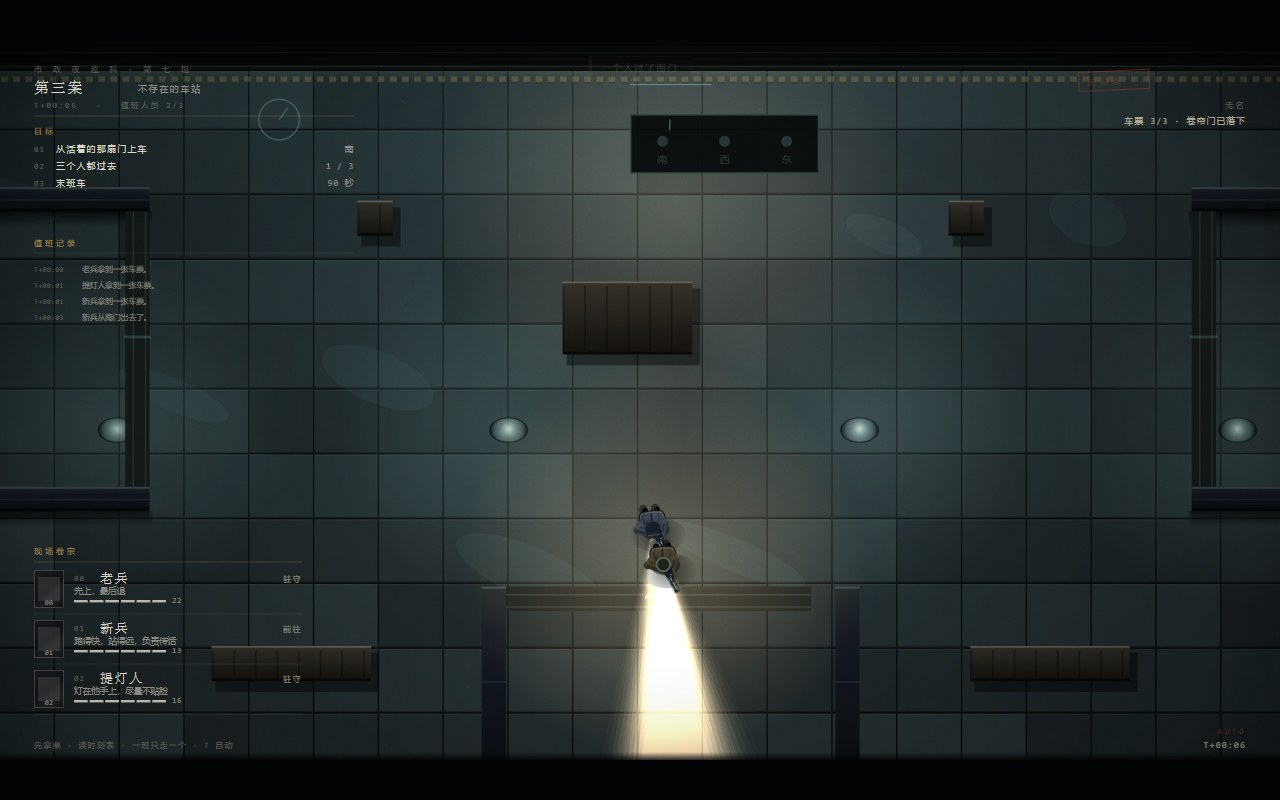
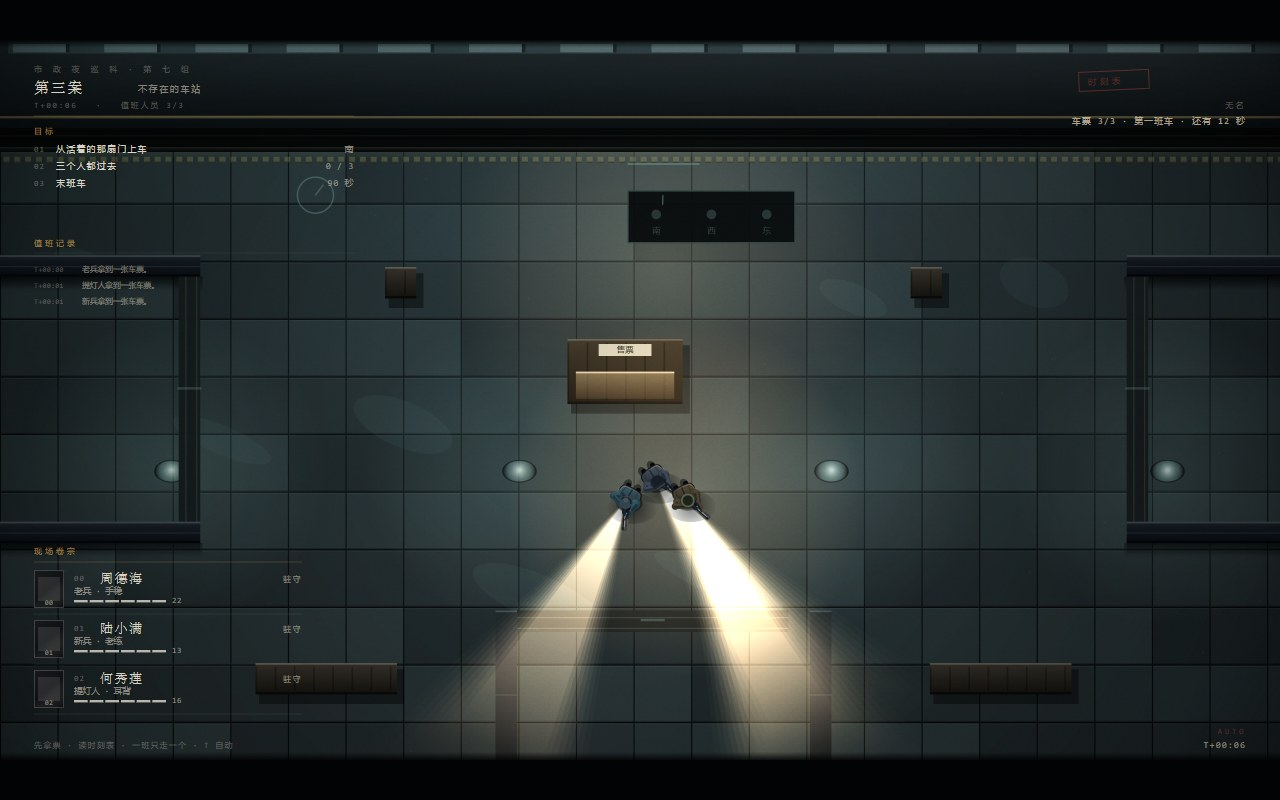
station: the first train is not in for eighteen seconds, so the wait is the ticket queue

diff --git a/game/src/rules.js b/game/src/rules.js
@@ -40,6 +40,7 @@ export function initRules(game) {
     r.open = c.rule.order[0];
     r.admitted = 0;
     r.ejected = 0;
+    r.warmup = c.rule.firstTrain || 0;
     // 一张票只卖给一个人：上车前先到小卖亭拿票
     r.tickets = 0;
     for (const a of game.agents) {
@@ -130,6 +131,15 @@ export function updateRules(game, dt) {
   }
 
   if (c.rule.kind === 'timetable') {
+    // 第一班车还没进站：站台先静 18 秒，这时间刚好够去小卖亭拿票
+    if (r.warmup > 0) {
+      r.warmup = Math.max(0, r.warmup - dt);
+      if (r.warmup === 0) {
+        game.say(L.hud.firstTrain);
+        game.sound.door();
+      }
+      return;
+    }
     r.phaseT += dt;
     if (r.phaseT >= c.rule.phaseSeconds) {
       r.phaseT = 0;
@@ -764,6 +774,7 @@ export function afterRules(game, dt) {
         continue;
       }
       const zone = c.zones[r.open];
+      if (r.warmup > 0) continue;
       if (inZone(zone, a.x, a.y)) {
         a.extracted = true;
         game.extracted += 1;
@@ -920,6 +931,9 @@ export function readout(game) {
   if (c.rule.kind === 'timetable') {
     const left = Math.ceil(c.rule.phaseSeconds - r.phaseT);
     const tickets = L.hud.tickets(r.tickets || 0, game.agents.length);
+    if (r.warmup > 0) {
+      return { stamp: L.hud.stampGate, line: `${tickets} · ${L.hud.firstTrainIn(Math.ceil(r.warmup))}`, live: true };
+    }
     return {
       stamp: L.hud.stampGate,
       line: `${tickets} · ${r.admitted >= 1 ? L.hud.oneThrough : L.hud.nextGate(L.hud.gates[r.open], left)}`,
@@ -1081,6 +1095,10 @@ export function directRules(game) {
     const need = kiosk && game.agents.some((a) => !a.extracted && !a.down && !a.taken && !a.ticket);
     if (need) {
       sendAll(game, kiosk.x, kiosk.y + kiosk.h / 2 + 20, true);
+      return;
+    }
+    if (r.warmup > 0) {
+      sendAll(game, c.spawns.wait.x, c.spawns.wait.y);
       return;
     }
     if (r.admitted >= 1) return;

diff --git a/game/src/locale/en.js b/game/src/locale/en.js
@@ -69,7 +69,7 @@ export const en = {
       name: 'THE STATION',
       place: 'KISARAGI · PLATFORM 0 · 02:44',
       legend: 'NO NAME',
-      rule: 'There is no station here, and the map changes. Every sixteen seconds one gate is live: south, west, east. Only one person gets through per departure — the shutter closes behind them. Buy a ticket at the kiosk in the middle of the platform first: one ticket, one passenger. The last train leaves at 96 seconds.',
+      rule: 'There is no station here, and the map changes. The first train is not in for eighteen seconds; after that one gate is live every sixteen seconds: south, west, east. Only one person gets through per departure — the shutter closes behind them. Buy a ticket at the kiosk in the middle of the platform first: one ticket, one passenger. The last train leaves at 96 seconds.',
       hint: 'TICKETS FIRST · READ THE TIMETABLE · ONE THROUGH PER GATE · T AUTO',
       obj: ['BOARD AT THE LIVE GATE', 'ALL THREE THROUGH', 'LAST TRAIN'],
       winSub: 'Three of you on a train that does not exist.',
@@ -219,6 +219,8 @@ export const en = {
     tickets: (n, total) => `TICKETS ${n}/${total}`,
     ticketGot: 'one ticket in hand',
     ticketSign: 'TICKETS',
+    firstTrain: 'THE FIRST TRAIN IS IN',
+    firstTrainIn: (s) => `FIRST TRAIN · ${s}s`,
     gateChange: (g, s) => `THE ${g} GATE IS LIVE`,
     gateAdmit: (g) => `ONE THROUGH THE ${g} GATE`,
     oneThrough: 'THE SHUTTER IS DOWN',

diff --git a/game/src/render.js b/game/src/render.js
@@ -620,7 +620,7 @@ function drawStation(ctx, game, time) {
   const names = ['south', 'west', 'east'];
   names.forEach((name, i) => {
     const gx = bx + 24 + i * 46;
-    const live = r.open === name && r.admitted < 1;
+    const live = r.open === name && r.admitted < 1 && !(r.warmup > 0);
     ctx.fillStyle = live ? 'rgba(214, 240, 228, 0.95)' : 'rgba(90, 110, 110, 0.4)';
     ctx.beginPath();
     ctx.arc(gx, by + 20, 4, 0, Math.PI * 2);
@@ -894,7 +894,7 @@ function drawDoors(ctx, game, time) {
     // 活着的那个门斗：里面是暖的，外面是冷的
     for (const [name, zone] of Object.entries(c.zones)) {
       if (name === 'platform') continue;
-      const live = r.open === name && r.admitted < 1;
+      const live = r.open === name && r.admitted < 1 && !(r.warmup > 0);
       if (!live) continue;
       const cx = zone.x + zone.w / 2;
       const cy = zone.y + zone.h / 2;
@@ -916,7 +916,7 @@ function drawDoors(ctx, game, time) {
     }
     for (const [name, rect] of Object.entries(c.rule.shutters)) {
       const [x, y, w, h] = rect;
-      const live = r.open === name && r.admitted < 1;
+      const live = r.open === name && r.admitted < 1 && !(r.warmup > 0);
       if (live) {
         // 门开了：里面是白的，什么都看不见
         const g = ctx.createLinearGradient(x, y, x + w, y + h);

diff --git a/game/src/locale/zh.js b/game/src/locale/zh.js
@@ -68,7 +68,7 @@ export const zh = {
       name: '不存在的车站',
       place: 'きさらぎ · 零号站台 · 02:44',
       legend: '无名',
-      rule: '这里没有站，地图会变。每十六秒只有一扇门是活的：南、西、东。每一班只放一个人过去，卷帘门在他身后合上。上车之前先去站台中间的小卖亭拿票——一张票一个人。末班车 96 秒开走。',
+      rule: '这里没有站，地图会变。第一班车 18 秒后才进站；之后每十六秒只有一扇门是活的：南、西、东。每一班只放一个人过去，卷帘门在他身后合上。上车之前先去站台中间的小卖亭拿票——一张票一个人。末班车 96 秒开走。',
       hint: '先拿票 · 读时刻表 · 一班只走一个 · T 自动',
       obj: ['从活着的那扇门上车', '三个人都过去', '末班车'],
       winSub: '三个人上了一趟不存在的车。',
@@ -215,6 +215,8 @@ export const zh = {
     tickets: (n, total) => `车票 ${n}/${total}`,
     ticketGot: '拿到一张车票',
     ticketSign: '售票',
+    firstTrain: '第一班车进站了',
+    firstTrainIn: (s) => `第一班车 · 还有 ${s} 秒`,
     gateChange: (g, s) => `${g}门开了`,
     gateAdmit: (g) => `一个人过了${g}门`,
     oneThrough: '卷帘门已落下',

diff --git a/game/src/cases.js b/game/src/cases.js
@@ -222,6 +222,7 @@ const STATION = {
   },
   rule: {
     kind: 'timetable',
+    firstTrain: 18,
     phaseSeconds: 16,
     lastTrain: 96,
     order: ['south', 'west', 'east'],

diff --git a/docs/CASES.md b/docs/CASES.md
@@ -41,10 +41,10 @@
 
 - **地点与场景**：一个没有名字的乡下车站。北侧是轨道与停着的列车（实体，挡视线），中间是岛式站台，南、西、东三个出口各有一个门斗，门斗口是一道卷帘门。站台中央有柱子、长椅、小卖亭。
 - **怪谈出处**：きさらぎ駅（2004 年 2ch 实况帖；不存在的站、没有时刻表、车会来但不该上）。取「时刻表决定哪扇门是真的」，不取「网上直播帖」的叙事框架。
-- **一条规则**：**地图会变，而且没有票上不了车。** 每 16 秒换一次「这一班车」的出口：南 → 西 → 东 → 南……。只有当前出口的卷帘门是开的；另外两扇是实体墙。站台中间的小卖亭卖票：走到柜台前停 0.7 秒拿一张，一张票只放一个人过去。换班的瞬间，还留在门斗里的人会被卷帘门推回站台中央并擦伤 2 点。末班车 96 秒开走，没出去的人留下。
+- **一条规则**：**地图会变，而且没有票上不了车。** 第一班车 18 秒后进站；之后每 16 秒换一次「这一班车」的出口：南 → 西 → 东 → 南……。只有当前出口的卷帘门是开的；另外两扇是实体墙。站台中间的小卖亭卖票：走到柜台前停 0.7 秒拿一张，一张票只放一个人过去。换班的瞬间，还留在门斗里的人会被卷帘门推回站台中央并擦伤 2 点。末班车 96 秒开走，没出去的人留下。
 - **Boss**：没有 Boss。只有**关门**：卷帘门、站台灯、末班车。压力全部来自时刻表与路程。
 - **新增机制**：`rule.kind = 'timetable'` —— 动态实体墙（卷帘门每 16 秒换一次开关）＋ 动态出口位置＋「一张票一个人」。它直接改**寻路**与**目标位置**：上一秒能走的路，下一秒是墙；想上车先得横穿站台去柜台。
-- **时长**：约 2 分钟（6 个班次；最快 2.5 个班次能走完，慢则 4 个）。
+- **时长**：约 2 分钟（第一班车 18 秒 + 4 个班次；最快 3 个班次、约 58 秒能走完）。
 - **参考**：Hotline Miami 的「按节拍推进」（借：一波一波的窗口期；不借：连杀奖励）。Backrooms 的「空间错了」（借：一间看起来很正常的房间，但出口不在你以为的地方；不借：无限随机迷宫）。
 - **不借**：不做随机迷宫。这里的「变」是**可读的时刻表**，玩家能算，自动指挥也能算。
 
@@ -96,7 +96,7 @@
 | --- | --- | --- | --- | --- |
 | 1 歌剧院 | `rule.kind = 'power'` 区域魅惑 + 拉闸 | 土蜘蛛 + 3 只蜘蛛子 | 32–40 s，3/3 撤离 | 完成 |
 | 2 公寓走廊 | `rule.kind = 'knock'` 敲门把队员吸走；空格＝别应门；她会在没人看的时候提前站到前面的门口 | 八尺様（不可杀，中弹只硬直 0.25 s；会拦住过道、被抓后记住那扇门、抓完退开） | 75 s，3/3 下楼（中途有人倒地） | 完成 |
-| 3 不存在的车站 | `rule.kind = 'timetable'` 每 16 s 换一个活门，每班只放一人；上车前必须去小卖亭拿票 | 没有 Boss，只有卷帘门与末班车 | 41 s，3/3 上车 | 完成 |
+| 3 不存在的车站 | `rule.kind = 'timetable'` 每 16 s 换一个活门，每班只放一人；第一班车 18 s 才进站；上车前必须去小卖亭拿票 | 没有 Boss，只有卷帘门与末班车 | 58 s，3/3 上车 | 完成 |
 | 4 稻田 | `rule.kind = 'gaze'` 注视条（枪口方向 × 距离 × 遮挡）；E＝移开目光 | 大くねくね（不可杀，注视速度 1.6×；会拦在队伍前面，0–88 px/s） | 83 s，3/3 进农舍 | 完成 |
 | 5 十三楼 | `rule.kind = 'floors'` 门牌每层重排，走错回起点；复制品踩队长的脚印、抢门 | 三个复制品（血 32，一个守一扇门、不追远、会模仿队长走位；被抢掉一层后从上一层跟下来一个） | 61 s，3/3 走出，必有一次回起点 | 完成 |
 
@@ -114,7 +114,7 @@
 
 1. 第四案的全自动路线 89 秒（两段田埂、两盏石灯、一路被拦）；人手玩会慢到 2–3 分钟。想再拉长就得改地形，而不是再加灯。
 2. 第二案：她的存在感来自「提前站到下一个门口」和「记住应过的那扇门」，而不是速度；如果玩家一路不回头、`别应门`也从不进冷却，她还是很难真正碰到人。这是有意的取舍（规则是门，不是追逐）。
-3. 第三案拿到票之后仍然只有 41 秒左右：票让「横穿站台」有了理由，但没有真正拉长案子。要拉长就得改班次结构（例如第一班不停车），而不是再加一层流程。
+3. 第三案拿到票、加上「第一班车 18 秒才进站」之后是 58 秒，接近设计里的 2 分钟下限。再想拉长就得改班次结构（例如某一班不停车），而不是再加一层流程。
 4. 第一案的交火有随机弹道：自动跑偶尔会倒一个人再由队友救起（30 次连跑全部结案，32–40 s）。台口的「后退点落在墙里」已于轮 42 修掉——之前约 1/10 会出现三人挤在台口被逐个打倒。
 5. 第五案：复制品会守门、会模仿、会抢门，血翻倍之后是一场真的交战；但它们仍然是「换层重生」的一次性压力，不是完整的 Boss 战。
 6. 帧时：五案都在 16.7 ms（p95 17 上下；机器忙时 p95 会抖到 33，median 不变），1280×800@dsf1，Chrome；没有出现 pageerror。

diff --git a/docs/ITERATIONS.md b/docs/ITERATIONS.md
@@ -401,6 +401,13 @@
 **结论**：保留这个脚本，以后每轮 UI 改动都可以先跑它。
 截图：无（回归轮）
 
+## 轮 58 — 第三案只有 41 秒
+**看**：`CASES.md` 的落差第 3 条：第三案最快 2.5 个班次就走完，96 秒的末班车从来没成为压力。票只让人横穿一次站台，没有改变时间结构。
+**改**：`rule.firstTrain = 18`——第一班车 18 秒后才进站。这 18 秒正好用来去小卖亭拿票（三个人 2 秒内拿完），站台先空一段；之后照旧每 16 秒一班。这段时间里三扇卷帘门都不亮、门斗不发光、时刻表三个点全暗，HUD 读数变成「车票 3/3 · 第一班车 · 还有 12 秒」；进站那一刻有卷帘门声和一句「第一班车进站了」。
+**测**：单案连跑 6 次全部 WON，58.5–58.8 秒（改前 41 s）；`nw-cases` 5/5、3/3、meta 回归通过；`nw-perf` median 16.7 ms。
+**结论**：保留。第三案终于和另外四案在同一个时长档（31／75／58／89／61 s）。
+截图：`screenshots/gallery/25-station-platform.jpg`
+
 ## 备注
 - `render.js` 里有一行 `window.__nwCam?.(CAM)` 的调试钩子，只给 tools 下的截图脚本用，未设置回调时无副作用。
 - 帧时：本轮期间机器整体从 16.7 ms 漂到 17.7–17.9 ms；用 `git stash` 回退到上一个提交复测仍是 17.8 ms，确认是机器负载，不是本轮改动。
